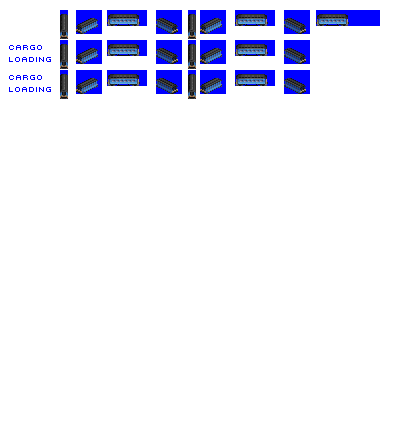
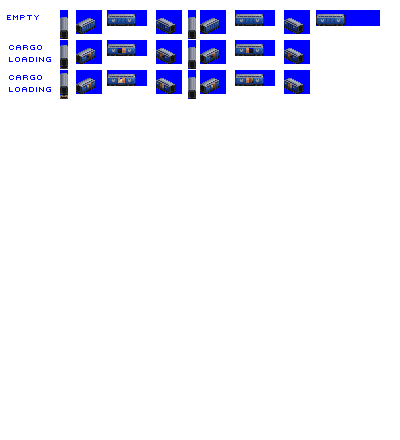
Change: new sprites for SOAM gen 1 and gen 3 mailcars

diff --git a/src/vehicles/mail_cars.py b/src/vehicles/mail_cars.py
@@ -92,7 +92,7 @@ consist.add_unit(MailCar(type_config = type_config,
                         consist = consist,
                         capacity_mail = 30,
                         weight = 29,
-                        vehicle_length = 8))
+                        vehicle_length = 7))
 
 consist.add_model_variant(intro_date=0,
                        end_date=global_constants.max_game_date,
